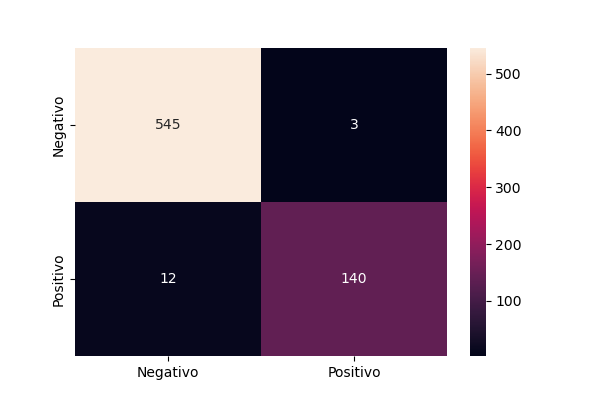
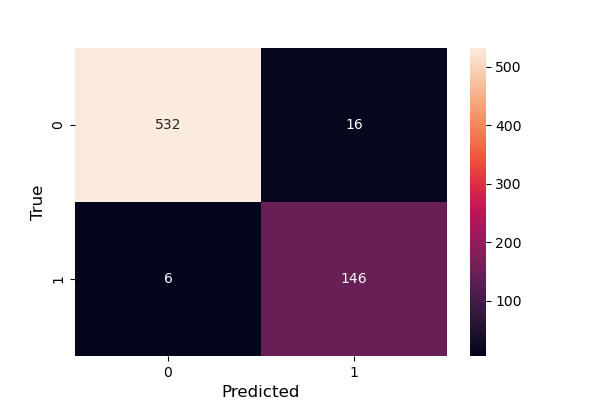
Correct visualizations

diff --git a/utils/data_utils.py b/utils/data_utils.py
@@ -112,9 +112,9 @@ class DataloadingManager:
         test_dataset, val_dataset = random_split(test_dataset, [int((1-val_ratio)*len(test_dataset)),
                                                                 int(val_ratio*len(test_dataset))])
 
-        print(f"Tamanho do dataset de treino: {len(train_dataset)}")
-        print(f"Tamanho do dataset de teste: {len(test_dataset)}")
-        print(f"Tamanho do dataset de validação: {len(val_dataset)}")
+        print(f"Size of training set: {len(train_dataset)}")
+        print(f"Size of test set: {len(test_dataset)}")
+        print(f"Size of validation set: {len(val_dataset)}\n")
 
         train_dataloader = DataLoader(dataset=train_dataset, batch_size=batch_size, 
                                         shuffle=True, num_workers=num_workers)
@@ -161,9 +161,9 @@ class DataloadingManager:
                                         num_samples = ds_size,
                                         replacement = True)
 
-        print(f"Tamanho do dataset de treino: {len(train_dataset)}")
-        print(f"Tamanho do dataset de teste: {len(test_dataset)}")
-        print(f"Tamanho do dataset de validação: {len(val_dataset)}")
+        print(f"Size of training set: {len(train_dataset)}")
+        print(f"Size of test set: {len(test_dataset)}")
+        print(f"Size of validation set: {len(val_dataset)}\n")
 
         train_dataloader = DataLoader(dataset=train_dataset, batch_size=BATCH_SIZE, 
                                         sampler=sampler, num_workers=NUM_WORKERS)

diff --git a/utils/eval_utils.py b/utils/eval_utils.py
@@ -4,10 +4,9 @@ import seaborn as sns
 import pandas as pd
 import sklearn.metrics as metrics
 from sklearn.metrics import confusion_matrix
-from utils.configs import get_training_config
 
 def plot_confusion_matrix(output, y_true, save_path):
-    classes = ['Negativo','Positivo']
+    classes = ['0','1']
     
     y_pred = np.round(output)
 
@@ -17,7 +16,8 @@ def plot_confusion_matrix(output, y_true, save_path):
                         columns = [i for i in classes])
     plt.figure(figsize = (6,4))
     sns.heatmap(df_cm, annot=True, fmt='d')
-
+    plt.xlabel('Predicted', fontsize = 12)
+    plt.ylabel('True', fontsize = 12)
     plt.savefig(save_path)
     
     
@@ -33,14 +33,14 @@ def plot_curves(output, y_true, save_path):
     fig, (ax1,ax2) = plt.subplots(1,2,figsize=(12,4))
     
     ax1.title.set_text('Receiver Operating Characteristic')
-    ax1.plot(fpr, tpr, 'b', label = 'AUC = %0.2f' % roc_auc)
+    ax1.plot(fpr, tpr, 'b', label = 'AUC = %0.4f' % roc_auc)
     ax1.legend(loc = 'lower right')
     ax1.plot([0, 1], [0, 1],'r--')
     ax1.set_ylabel('True Positive Rate')
     ax1.set_xlabel('False Positive Rate')
     
     ax2.title.set_text('Precision vs Recall')
-    ax2.plot(recall, precision, label = 'AUC = %0.2f' % pr_auc)
+    ax2.plot(recall, precision, label = 'AUC = %0.4f' % pr_auc)
     ax2.legend(loc = 'lower left')
     ax2.set_ylabel('Precision')
     ax2.set_xlabel('Recall')

diff --git a/train.py b/train.py
@@ -61,7 +61,6 @@ class ViTClassifier:
         return np.array([accuracy, precision, recall, f1, auroc])
     
     
-        
     def fit(self, train_dataloader, val_dataloader, log: bool = True):
         
         if log:
@@ -152,7 +151,6 @@ class ViTClassifier:
         self.model.load_state_dict(torch.load(r'out\best_model.pt')['model_state_dict'])
         
 
-    
     def predict(self, dl):
         '''
         Predicts labels. Should be called after fitting
@@ -169,7 +167,6 @@ class ViTClassifier:
                 y_true.extend(label.cpu().numpy())
         
         return out, y_true
-    
     
     
     def evaluate(self, test_dataloader):
@@ -195,7 +192,7 @@ class ViTClassifier:
                 test_output = self.model(data)[:,0]
                 test_loss = self.criterion(test_output, label.float())
 
-                test_loss += test_loss.float() / len(test_dataloader)
+                test_loss += test_loss.item() / len(test_dataloader)
                 test_metrics = test_metrics + self.get_metrics(test_output, label) / len(test_dataloader)
 
                 out.extend(test_output.cpu().numpy())
